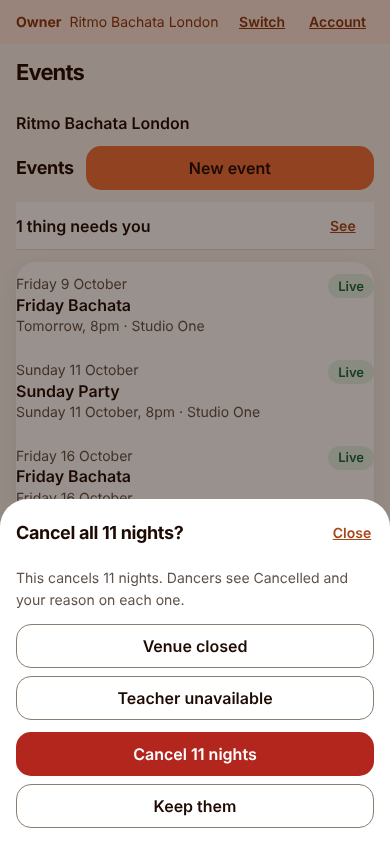
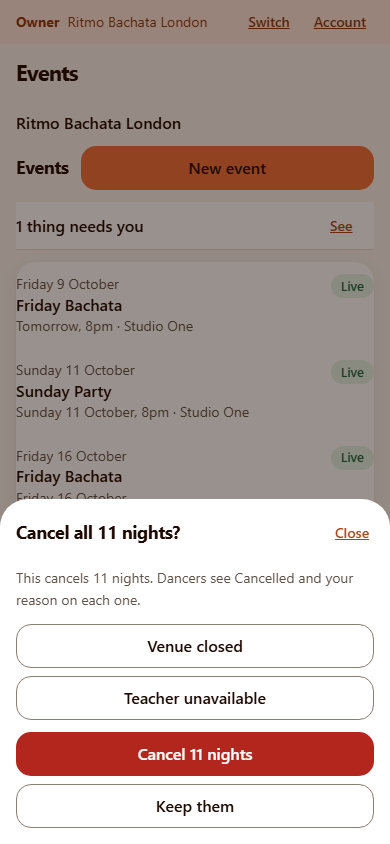
fix(organiser-events): one-Close test and fresh conflict walk shot (review r2 D1) [skip preview]
Claude-Session: https://claude.ai/code/session_01WoGkiEdKCHLHCiNd6YdTNc

diff --git a/src/modules/organiser/p3/events/__tests__/dashEvents.test.tsx b/src/modules/organiser/p3/events/__tests__/dashEvents.test.tsx
@@ -147,6 +147,14 @@ describe('CancelNight', () => {
     expect(h.refetch).toHaveBeenCalledTimes(1);
   });
 
+  it('every night, version conflict: the conflict view shows exactly one Close control', async () => {
+    h.bulk.mockRejectedValueOnce(new Error('version_conflict'));
+    everyNight();
+    fireEvent.click(screen.getByTestId('ev-every-confirm'));
+    await waitFor(() => expect(screen.getByTestId('ev-every-conflict')).toBeTruthy());
+    expect(screen.getAllByRole('button', { name: 'Close' }).length).toBe(1);
+  });
+
   it('every night, after conflict -> Reload -> Confirm: the second send has a NEW key and the refetched version', async () => {
     h.bulk.mockRejectedValueOnce(new Error('version_conflict'));
     const client = new QueryClient();

diff --git a/docs/briefs/profile-dash-organiser-events-build.handover.md b/docs/briefs/profile-dash-organiser-events-build.handover.md
@@ -32,3 +32,6 @@ Fix round 3 (brief events-1584-fix3, ticket dt_f261a00ffd77): F1-F4 done, nothin
 - F4: unknown role defaults to view-only (contributor). Test rows: owner, manager, contributor, viewer, "", undefined (viewer/""/undefined red on the unfixed code).
 Verified: vitest src/modules/organiser/p3/events 55/55 green; check:mojibake clean; tsc: zero errors in touched files; walk conflict spec passed locally.
 Not verified: full pre-ship; per-job CI table (no gh/CI access here, the PR body needs it added by the owner); prod-shaped data walk; PR body label checks (no PR body file in this run).
+
+Fix round 4 (arc-owner, fast worktree, review r2 D1): re-took the conflict shot at 390x844 (flags on, route-mocked fake): one Close only. Added test "conflict view shows exactly one Close control" (red on a mutant with the duplicate button restored, green on the branch). vitest src/modules/organiser/p3/events 56/56 green. every-night-confirm and conflict-after-reload shots re-taken in the same run (date-driven text).
+Not verified: prod-shaped data walk (fake only, owner chose); full pre-ship; CI at this head.
